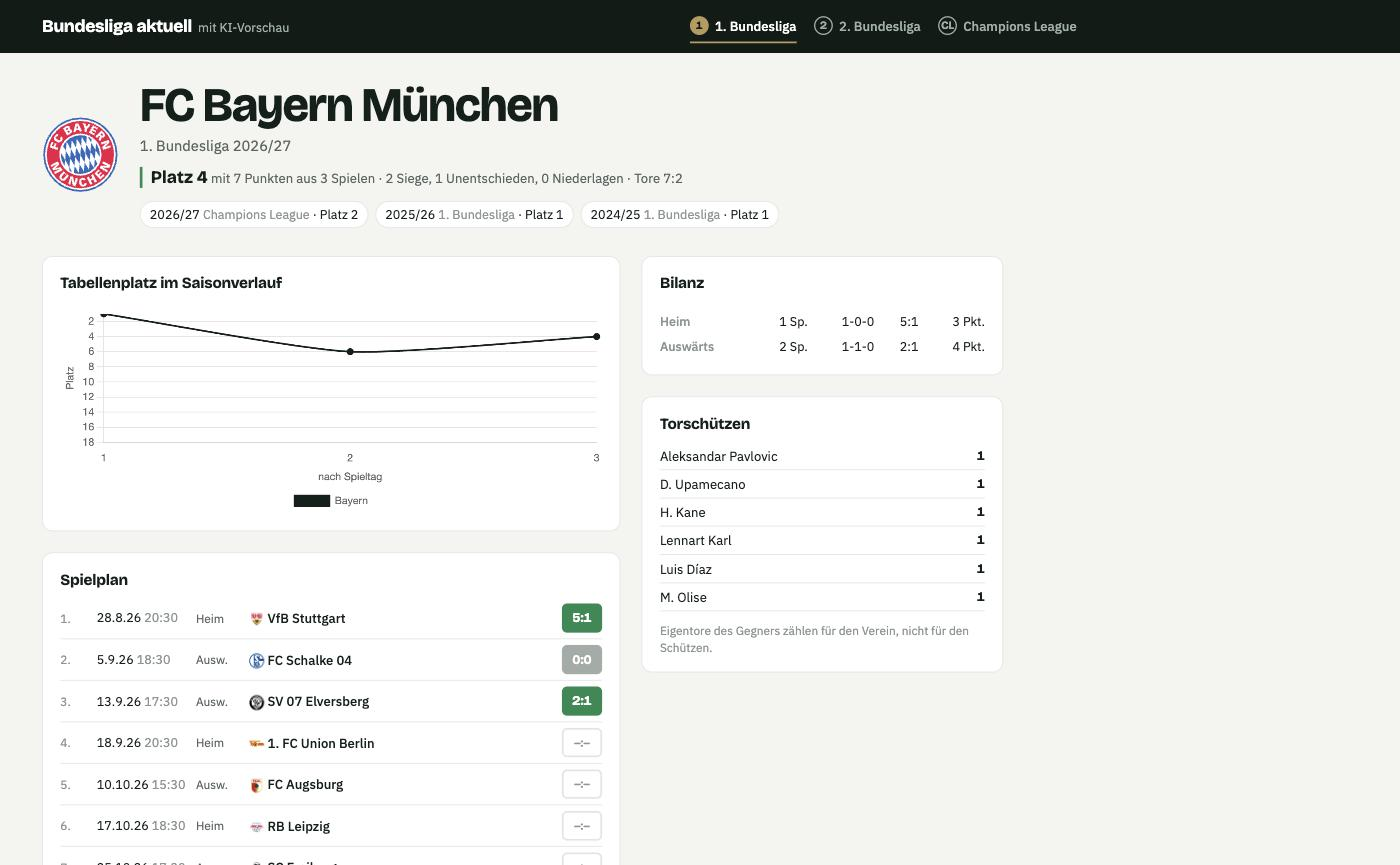
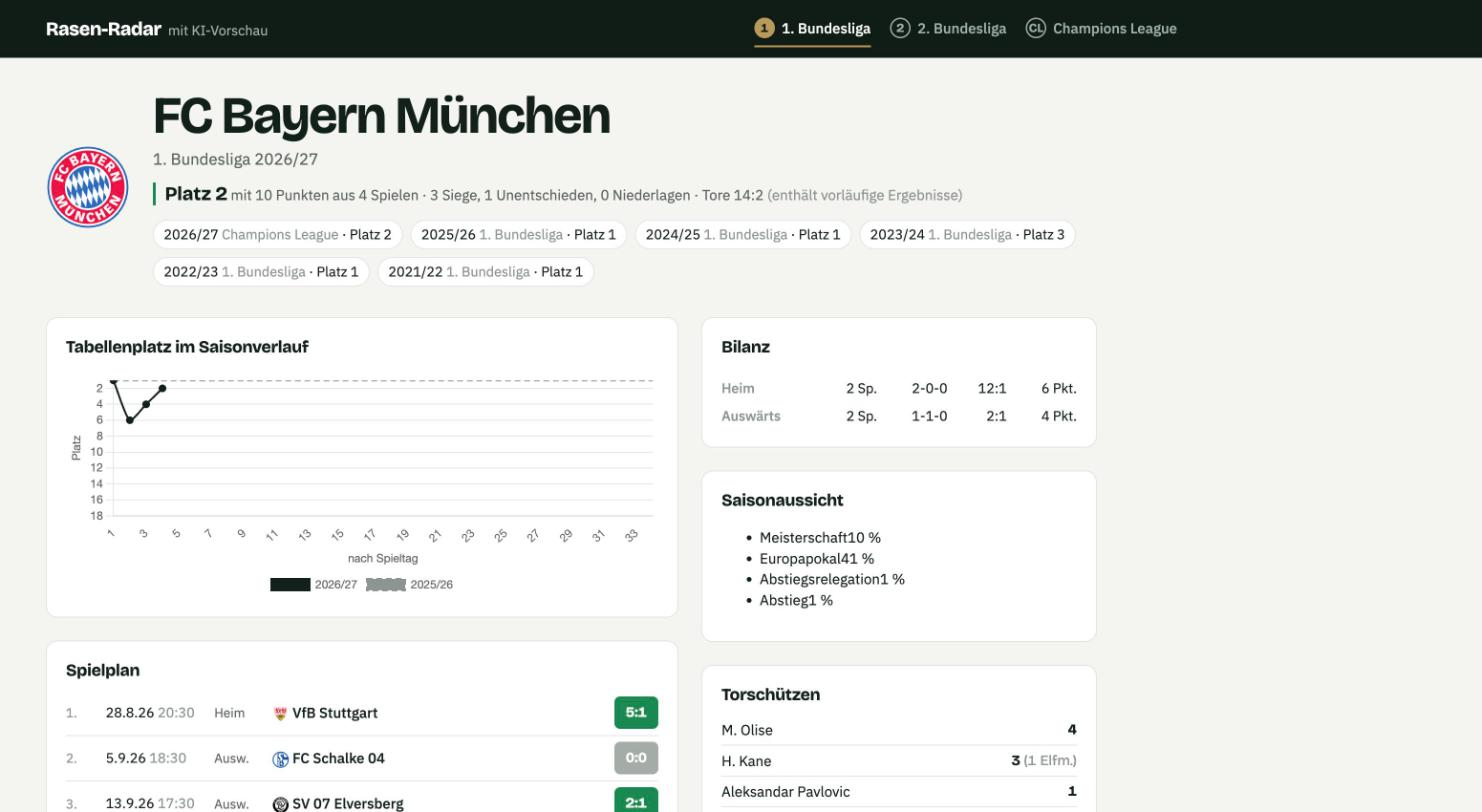
fix(matchday): keep the "Saisonaussicht" heading after htmx loads it
hx-swap="innerHTML" sat on the same facts-block div as the <h2>, so the
heading got wiped out along with the "Wird geladen …" placeholder once
the fragment loaded. Move the swap target to a nested div instead.

Also refreshes README screenshots for the merged Spec 4 feature.

diff --git a/src/main/resources/templates/MatchdayPages/team.html b/src/main/resources/templates/MatchdayPages/team.html
@@ -62,9 +62,11 @@
         </table>
       </div>
 
-      <div class="facts-block" hx-get="{page.outlookLink}" hx-trigger="load" hx-swap="innerHTML">
+      <div class="facts-block">
         <h2>Saisonaussicht</h2>
-        <p class="muted">Wird geladen …</p>
+        <div hx-get="{page.outlookLink}" hx-trigger="load" hx-swap="innerHTML">
+          <p class="muted">Wird geladen …</p>
+        </div>
       </div>
 
       <div class="facts-block">

diff --git a/README.md b/README.md
@@ -27,7 +27,7 @@ Aktuelle Spieltage, Tabellen und Vereinsdaten der 1./2. Bundesliga und der Champ
 
 | KI-Vorschau | Vereinsseite |
 |---|---|
-| ![KI-Vorschau mit Wahrscheinlichkeiten, Bewertungen und Prüfung](docs/screenshots/ki-vorschau.jpg) | ![Vereinsseite mit Saisonverlauf, Spielplan und Torschützen](docs/screenshots/vereinsseite.jpg) |
+| ![KI-Vorschau mit Wahrscheinlichkeiten, Bewertungen und Prüfung](docs/screenshots/ki-vorschau.jpg) | ![Vereinsseite mit Saisonverlauf, Saisonaussicht, Spielplan und Torschützen](docs/screenshots/vereinsseite.jpg) |
 
 **Trefferbilanz** — wie gut die KI-Vorschau wirklich ist, gemessen an einer reinen Statistik-Basisprognose:
 
@@ -38,6 +38,7 @@ Aktuelle Spieltage, Tabellen und Vereinsdaten der 1./2. Bundesliga und der Champ
 - **Spieldaten in Echtzeit** — 1./2. Bundesliga und die Champions-League-Ligaphase, alle 15 Minuten mit [OpenLigaDB](https://www.openligadb.de) abgeglichen. Ergebnisse gelten erst 24 Stunden nach Anstoß als endgültig; vorläufige Ergebnisse sind im UI klar markiert.
 - **Abgeleitete Fakten** — Form (letzte 5 Saisonspiele), direkte Duelle über mehrere Saisons, Tabelle „vor Spieltag N", Heim-/Auswärtsbilanz, Torschützen je Verein.
 - **Vereinsseiten** — Tabellenplatz im Saisonverlauf, kompletter Spielplan, Bilanz, Torschützen, Verlinkung zu Vorsaisons (auch über Ligagrenzen hinweg bei Auf-/Absteigern).
+- **Saisonaussicht** — Wahrscheinlichkeiten je Mannschaft für Meisterschaft, Europapokal, Auf-/Abstieg und Co., statistisch simuliert (Monte Carlo über die verbleibenden Spiele) und nach jedem beendeten Spieltag neu berechnet.
 - **KI-Vorschau** — ein agentischer Workflow (LangChain4j) aus drei parallelen Bewertern (Form, direkte Duelle, Umfeld), einem Prognostiker und einem Prüfer mit einer Überarbeitungsrunde. Modell: Anthropic Claude Sonnet 5, lokales Ollama als Fallback im Dev-Modus. Eine Prognose wird nie geändert oder gelöscht — eine erneute ist ein neuer Eintrag.
 - **Rückschau mit Trefferbilanz** — jede Prognose wird gegen das endgültige Ergebnis geprüft (Tendenztreffer, Brier-Score, Sicherheitskalibrierung) und gegen eine statistische Basisprognose (Poisson-Schätzung aus Torschnitt und Heimvorteil) verglichen. Eine Quote gibt es erst ab genügend Datenbasis — vorher ausdrücklich nichts statt einer dünnen Zahl. Dazu eine einfache Trefferverlauf-Ansicht ohne Statistikwissen.
 - **Rücktest-Modus** — Prognosen für bereits gespielte Begegnungen der laufenden Saison, sofort bewertet, getrennt von Live-Prognosen ausgewiesen.
